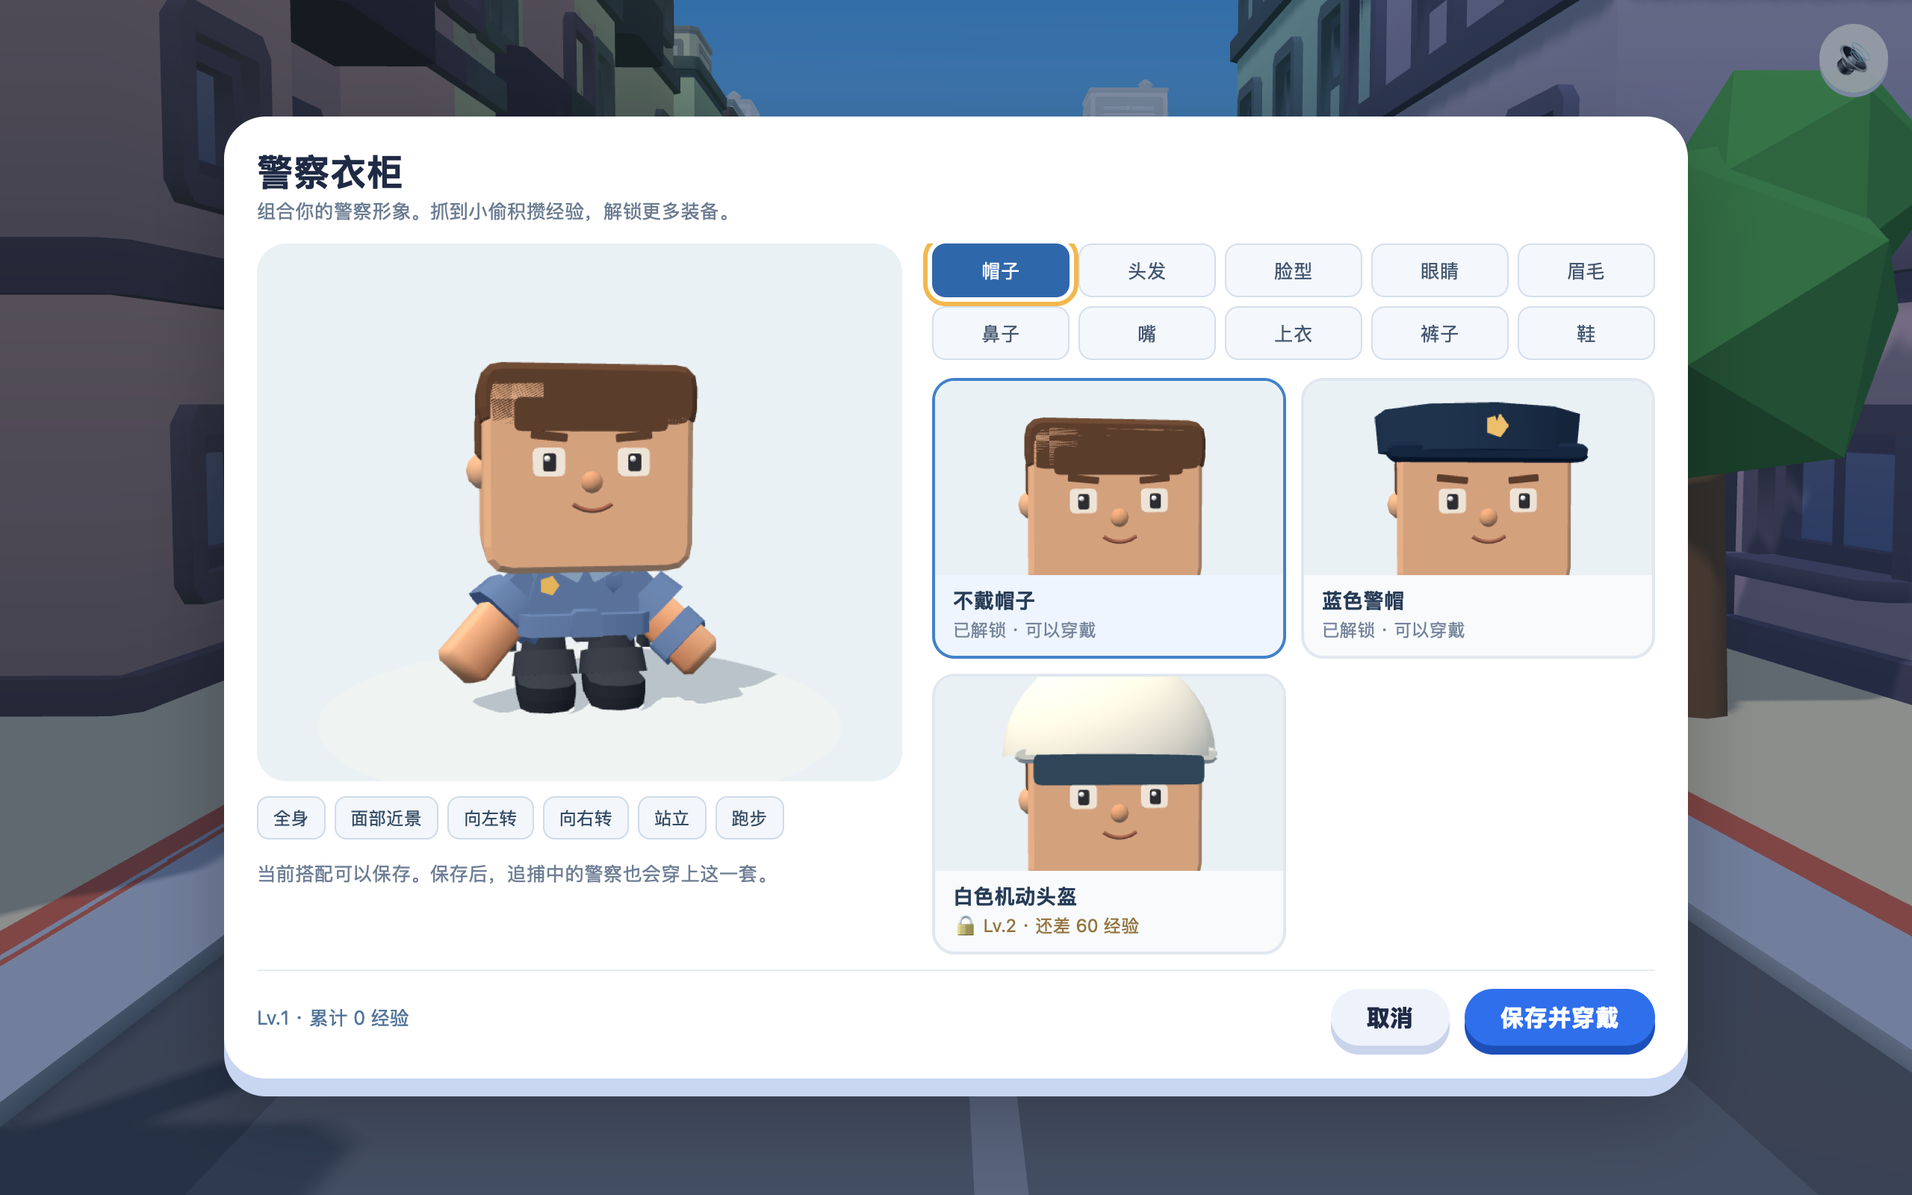
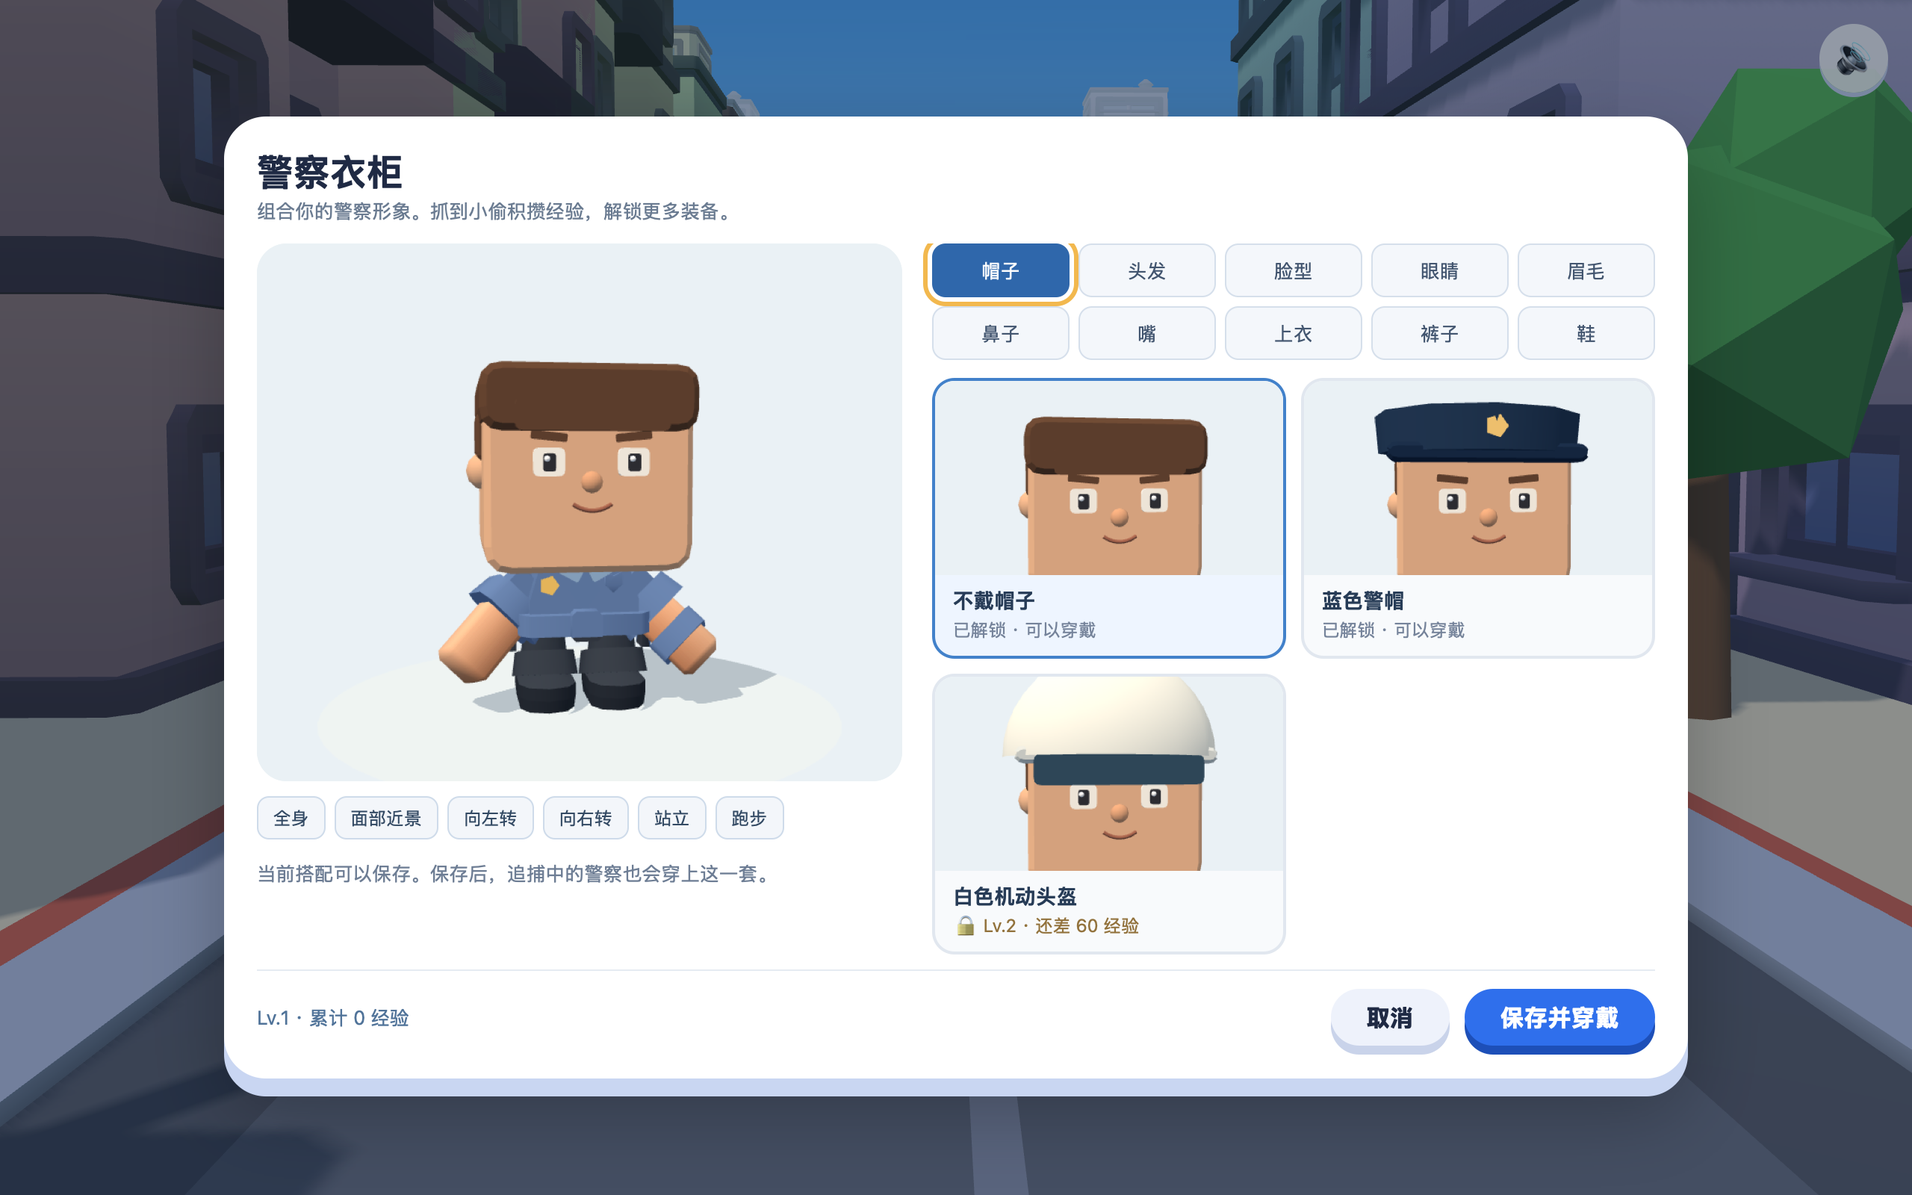
fix: release character skeletons and enable keyboard wardrobe entry

diff --git a/App/main.swift b/App/main.swift
@@ -48,7 +48,10 @@ final class AppDelegate: NSObject, NSApplicationDelegate, NSWindowDelegate {
     func applicationDidFinishLaunching(_ notification: Notification) {
         let config = WKWebViewConfiguration()
         config.mediaTypesRequiringUserActionForPlayback = []
-        if ProcessInfo.processInfo.environment["KC_SELFTEST"] != nil { config.websiteDataStore = .nonPersistent() }
+        if ProcessInfo.processInfo.environment["KC_SELFTEST"] != nil {
+            config.websiteDataStore = .nonPersistent()
+            config.userContentController.addUserScript(WKUserScript(source: "window.__nativeErrors=[];window.addEventListener('error',e=>window.__nativeErrors.push(e.message));window.addEventListener('unhandledrejection',e=>window.__nativeErrors.push(String(e.reason)));", injectionTime: .atDocumentStart, forMainFrameOnly: true))
+        }
         if let dir = Bundle.main.resourceURL?.appendingPathComponent("web") {
             config.setURLSchemeHandler(BundleSchemeHandler(root: dir), forURLScheme: "app")
         }
@@ -87,7 +90,7 @@ final class AppDelegate: NSObject, NSApplicationDelegate, NSWindowDelegate {
         }
         let codes: [Character: UInt16] = ["a": 0, "s": 1, "d": 2, "f": 3, "h": 4, "g": 5, "z": 6, "x": 7, "c": 8, "v": 9, "b": 11, "q": 12, "w": 13, "e": 14, "r": 15, "y": 16, "t": 17, "o": 31, "u": 32, "i": 34, "p": 35, "l": 37, "j": 38, "k": 40, ";": 41, "n": 45, "m": 46, " ": 49]
         func snap(_ name: String, then: @escaping () -> Void) {
-            webView.evaluateJavaScript("JSON.stringify(window.__kcState && window.__kcState())") { result, _ in
+            webView.evaluateJavaScript("JSON.stringify(window.__kcState && {...window.__kcState(),errors:window.__nativeErrors||[],visibility:document.visibilityState,focused:document.hasFocus(),contextLost:document.getElementById('gl').getContext('webgl2').isContextLost()})") { result, _ in
                 try? ((result as? String) ?? "null").write(toFile: "\(outDir)/\(name).json", atomically: true, encoding: .utf8)
                 self.webView.takeSnapshot(with: nil) { image, _ in
                     if let tiff = image?.tiffRepresentation, let rep = NSBitmapImageRep(data: tiff), let png = rep.representation(using: .png, properties: [:]) {
@@ -111,19 +114,24 @@ final class AppDelegate: NSObject, NSApplicationDelegate, NSWindowDelegate {
                 if error == nil, (result as? Bool) == true { return then() }
                 guard attempts > 0 else {
                     try? "Timed out: \(expression)".write(toFile: "\(outDir)/failure.txt", atomically: true, encoding: .utf8)
-                    return NSApp.terminate(nil)
+                    return snap("failure") { NSApp.terminate(nil) }
                 }
                 DispatchQueue.main.asyncAfter(deadline: .now() + 0.25) { waitFor(expression, attempts: attempts - 1, then: then) }
             }
         }
         func play() {
-            key("\r", 36)
-            waitFor("window.__kcState().state === 'play'") {
-                typeNext(24) {
-                    snap("2-play") {
-                        if ProcessInfo.processInfo.environment["KC_WARDROBE_TEST"] == nil { return NSApp.terminate(nil) }
-                        typeNext(40) {
-                            waitFor("Boolean(document.querySelector('#result.show')) && window.__kcState().xp === 35") { snap("4-result") { NSApp.terminate(nil) } }
+            window.makeKeyAndOrderFront(nil)
+            NSApp.activate(ignoringOtherApps: true)
+            window.makeFirstResponder(webView)
+            webView.evaluateJavaScript("document.getElementById('startBtn').focus()") { _, _ in
+                key("\r", 36)
+                waitFor("window.__kcState().state === 'play'") {
+                    typeNext(24) {
+                        snap("2-play") {
+                            if ProcessInfo.processInfo.environment["KC_WARDROBE_TEST"] == nil { return NSApp.terminate(nil) }
+                            typeNext(40) {
+                                waitFor("Boolean(document.querySelector('#result.show')) && window.__kcState().xp === 35") { snap("4-result") { NSApp.terminate(nil) } }
+                            }
                         }
                     }
                 }

diff --git a/web/wardrobe-character.js b/web/wardrobe-character.js
@@ -23,6 +23,9 @@ function part(parent,geo,color,x=0,y=0,z=0) {
  const o=new THREE.Mesh(geo,mat(color));o.position.set(x,y,z);o.castShadow=true;o.receiveShadow=false;parent.add(o);return o;
 }
 function release(group) {group.traverse(o=>{if(o.isMesh){o.geometry.dispose();if(o.userData.ownMaterial)o.material.dispose();}});group.removeFromParent();}
+export function disposeCharacterSkeletons(model) {
+ for(const skeleton of new Set(model.getObjectsByProperty('isSkinnedMesh',true).map(mesh=>mesh.skeleton)))skeleton.dispose();
+}
 export function createWardrobeCharacter(baseGLTF,outfit=DEFAULT_OUTFIT) {
  if(!bodyData) throw new Error('请先加载换装素材');
  const model=clone(baseGLTF.scene);model.scale.setScalar(2);model.rotation.y=Math.PI;
@@ -33,7 +36,7 @@ export function createWardrobeCharacter(baseGLTF,outfit=DEFAULT_OUTFIT) {
  model.traverse(o=>{if(o.name==='head')head=o;if(o.name==='torso')torso=o;if(o.name==='body-mesh')body=o;if(o.name==='head-mesh')oldHead=o;});
  model.updateMatrixWorld(true);body.visible=false;oldHead.visible=false;
  const ch={root,model,mixer,actions,head,torso,body,current:null,parts:null,outfit:null};
- ch.dispose=()=>{mixer.stopAllAction();mixer.uncacheRoot(model);if(ch.parts)release(ch.parts);for(const o of ch.clothes||[])release(o);root.removeFromParent();};
+ ch.dispose=()=>{mixer.stopAllAction();mixer.uncacheRoot(model);disposeCharacterSkeletons(model);if(ch.parts)release(ch.parts);for(const o of ch.clothes||[])release(o);root.removeFromParent();};
  applyOutfit(ch,outfit);return ch;
 }
 export function applyOutfit(ch,outfit) {
@@ -66,8 +69,8 @@ export function applyOutfit(ch,outfit) {
  // 发型贴合头型；帽内版本收起顶部头发，保留鬓角。
  const covered=outfit.hat!=='hat-none',hairColor=outfit.hair==='hair-parted'?0x503629:0x634432;
  if(!covered){
-  part(parts,rounded(width+.018,.115,.35,.035),hairColor,0,.365,-.005);
-  const fringe=part(parts,rounded(outfit.hair==='hair-parted'?.22:.33,.07,.025,.015),hairColor,outfit.hair==='hair-parted'?-.06:0,.327,.176);
+  part(parts,rounded(width+.018,.115,.38,.035),hairColor,0,.365,-.005);
+  const fringe=part(parts,rounded(outfit.hair==='hair-parted'?.22:.33,.07,.025,.015),hairColor,outfit.hair==='hair-parted'?-.06:0,.327,.20);
   if(outfit.hair==='hair-parted')fringe.rotation.z=-.12;
  }
  part(parts,rounded(width+.012,.24,.045,.025),hairColor,0,.245,-.185);

diff --git a/web/world.js b/web/world.js
@@ -1,6 +1,6 @@
 // 3D 街道世界：Kenney CC0 模型 + three.js
 import * as THREE from 'three';
-import { createWardrobeCharacter, loadWardrobeAssets } from './wardrobe-character.js';
+import { createWardrobeCharacter, loadWardrobeAssets, disposeCharacterSkeletons } from './wardrobe-character.js';
 import { SCENES, OFFICERS, validChoice } from './customization.js';
 import { GLTFLoader } from 'three/addons/loaders/GLTFLoader.js';
 import { clone as cloneSkinned } from 'three/addons/utils/SkeletonUtils.js';
@@ -155,12 +155,18 @@ export class World {
     return previews;
   }
 
-  setCustomOutfit(outfit) {
-    if(this.cop.dispose) this.cop.dispose();
+  retireCop() {
+    if (!this.cop) return;
+    if (this.cop.dispose) this.cop.dispose();
     else {
-      this.cop.mixer.stopAllAction();this.cop.mixer.uncacheRoot(this.cop.model);this.scene.remove(this.cop.root);
+      this.cop.mixer.stopAllAction();this.cop.mixer.uncacheRoot(this.cop.model);
+      disposeCharacterSkeletons(this.cop.model);this.scene.remove(this.cop.root);
       for(const part of this.cop.accessories || []) part.traverse(o=>{if(o.isMesh){o.geometry.dispose();o.material.dispose();}});
     }
+  }
+
+  setCustomOutfit(outfit) {
+    this.retireCop();
     this.cop = createWardrobeCharacter(this.models['character-male-c'], outfit);
     this.scene.add(this.cop.root);this.officer='custom';
   }
@@ -178,13 +184,7 @@ export class World {
       this.scene.fog.color.set(scene === 'coast' ? 0xc7eced : scene === 'forest' ? 0xd9e8ce : 0xd4ecff);
     }
     if (this.cop && officer !== this.officer) {
-      if(this.cop.dispose) this.cop.dispose();
-      this.cop.mixer.stopAllAction();
-      this.cop.mixer.uncacheRoot(this.cop.model);
-      this.scene.remove(this.cop.root);
-      for (const part of this.cop.accessories || []) part.traverse(o => {
-        if (o.isMesh) { o.geometry.dispose(); o.material.dispose(); }
-      });
+      this.retireCop();
       this.cop = this.makeCharacter('character-male-c', false);
       this.dressCop(this.cop, officer);
       this.scene.add(this.cop.root);

diff --git a/web/wardrobe-ui.js b/web/wardrobe-ui.js
@@ -36,7 +36,7 @@ export async function createWardrobeUI({container,progress,onSave,onCancel}) {
   else if(!event.shiftKey&&document.activeElement===last){event.preventDefault();first.focus();}
  });
  function close(){container.classList.remove('show');preview.stop();container.removeAttribute('aria-modal');opener?.focus();}
- $('wardrobeCancel').onclick=()=>{close();onCancel();};
+ $('wardrobeCancel').onclick=()=>{onCancel();close();};
  $('wardrobeSave').onclick=()=>{if(!canEquip(draft,current).ok)return;const result=onSave({...draft});close();if(result?.ok===false)document.getElementById('progressError').textContent=result.error;};
- return {open(progress){current=progress;draft={...progress.outfit};opener=document.activeElement;preview.setOutfit(draft);preview.angle=.15;preview.closeup=false;preview.animate('idle');category='hat';render();container.classList.add('show');container.setAttribute('aria-modal','true');container.setAttribute('role','dialog');preview.resize();preview.start();$('wardrobeTabs').firstElementChild.focus();},close,resize(){preview.resize();},dispose(){preview.dispose();},cancel(){close();onCancel();},thumbnail(outfit){preview.setOutfit(outfit);preview.closeup=false;preview.angle=.15;preview.render(0);return preview.canvas.toDataURL();}};
+ return {open(progress){current=progress;draft={...progress.outfit};opener=document.activeElement;preview.setOutfit(draft);preview.angle=.15;preview.closeup=false;preview.animate('idle');category='hat';render();container.classList.add('show');container.setAttribute('aria-modal','true');container.setAttribute('role','dialog');preview.resize();preview.start();$('wardrobeTabs').firstElementChild.focus();},close,resize(){preview.resize();},dispose(){preview.dispose();},cancel(){onCancel();close();},thumbnail(outfit){preview.setOutfit(outfit);preview.closeup=false;preview.angle=.15;preview.render(0);return preview.canvas.toDataURL();}};
 }

diff --git a/web/game.js b/web/game.js
@@ -670,6 +670,8 @@ window.addEventListener('blur', pauseGame);
 
 window.addEventListener('keydown', e => {
   if (e.metaKey || e.ctrlKey) return; // 保留 ⌘Q 等系统快捷键
+  const menuButton=G.state==='menu' && e.target.closest?.('button');
+  if(G.state==='menu' && (e.key==='Tab' || (menuButton && menuButton.getClientRects().length && ['Enter',' '].includes(e.key))))return;
   if(G.state!=='wardrobe') e.preventDefault();
   if (e.repeat) return;
   const key = e.key;

diff --git a/docs/wardrobe-review/verification.md b/docs/wardrobe-review/verification.md
@@ -13,22 +13,23 @@
 - 素材：源身体 494 个三角形覆盖一次，位置、权重与骨骼索引合法。
 - 成长：17 项单元测试，涵盖准确率边界、连击、失败、演示、幂等、升级、非法数据、存储损坏与配额失败。
 - 样板：十类部件、单一头部、脸型/头发替换及跑步姿态。
-- 衣柜：锁定试穿、取消/Esc 回滚、保存重载、预设切换、最小窗口、Tab 焦点不离开弹窗。
+- 衣柜：锁定试穿、取消/Esc 回滚、保存重载、预设切换、最小窗口、菜单 Tab、Enter、空格可打开衣柜；Tab 焦点不离开弹窗、取消后焦点回到衣柜入口。
 - 抓捕：真实键盘 → 奖励 → 解锁 → 穿戴 → 再次抓捕；失败和演示不奖励。
 - 组合：12 种帽/发/脸组合、8 种制服组合；20 次衣柜开关不新增画布、GPU 几何和贴图数量不增长；全十部件保存并在三种场景启动。
+- 资源生命周期：真实渲染分配的骨骼贴图在人物销毁时释放；12 次自定义角色开局/场景替换后贴图数量稳定。
 - 原有功能：选择持久化、暂停、抓获、陈旧设置恢复、最小窗口；三场景 × 三预设共 9 个组合。
 
 运行入口：`BASE_URL=http://127.0.0.1:18765 ./tests/run-all.sh`，浏览器渲染测试串行。现有测试仅新增可选 BASE_URL，保留原断言和默认 8765 地址。
 
 ## 视觉复核
 
-已查看实际渲染截图：人物全身、脸部、衣柜、三场景及 Mac WKWebView。修正了分区衣服自阴影斑块、帽沿与脸角相交、帽子顶部裁切。新部件保留投影，关闭其自阴影接收；地面继续接收阴影。所有缩略图和人物使用相同颜色、光照与部件。
+已查看实际渲染截图：人物全身、脸部、衣柜、三场景及 Mac WKWebView。修正了分区衣服自阴影斑块、帽沿与脸角相交、帽子顶部裁切及不戴帽子时头发与脸部重合产生的闪纹。新部件保留投影，关闭其自阴影接收；地面继续接收阴影。所有缩略图和人物使用相同颜色、光照与部件。
 
 自动化没有代替用户对美术的最终偏好判断；完整样板可在 `wardrobe-sample.html` 自由试穿。
 
 ## 原生与交付边界
 
-`./build.sh` 生成 arm64 / x86_64 通用 App。本机 Apple 芯片 WKWebView 自检用临时存储，打开衣柜、试穿锁定头盔后取消、不戴帽子后保存、发送真实 NSEvent 键盘事件并抓获。状态与 WKWebView 快照保存在 `native/`。最终抓捕记录 correct=24、wrong=0、officer=custom、xp=35；取消时 xp=0、outfit.hat=hat-cap。
+`./build.sh` 生成 arm64 / x86_64 通用 App。本机 Apple 芯片 WKWebView 自检用临时存储，打开衣柜、试穿锁定头盔后取消、不戴帽子后保存、发送真实 NSEvent 键盘事件并抓获。自检发送按键前重新激活窗口，避免 WebKit 后台不推进倒计时；超时会记录失败状态和快照。最终运行未注入额外动画循环，记录脚本错误为空、WebGL 上下文正常。状态与 WKWebView 快照保存在 `native/`。最终抓捕记录 correct=24、wrong=0、officer=custom、xp=35；取消时 xp=0、outfit.hat=hat-cap。
 
 签名为本地 ad-hoc；Intel 二进制已构建，Intel 实机尚未测试。没有替换 `/Applications` 中的应用，没有推送或发布 GitHub。新版 App 在本分支的 `dist/键盘小警察.app`。
 
@@ -38,3 +39,7 @@
 - 隔离开发保留主仓库和已安装应用；使用 18765 端口，避免占用现有预览。体验新版需打开新版预览或本分支 App。
 - 自定义/预设模式单独保存 active 标记；预设仍免费，但不会赠送对应部件的解锁资格。
 - 现有浏览器测试仅增加地址参数，方便验证隔离副本；断言及默认地址不变。
+
+## 最终独立审查
+
+两项 Important 已修复并补充实际回归：独立克隆的骨骼贴图在退休人物时释放（同时处理临时预设角色）；菜单放行 Tab 与可见按钮的 Enter/空格原生行为。两项均先观察回归失败再验证修复通过。审查未发现 Critical 或 Minor。视觉、最小窗口、原生按键及资源增长由本次实际运行证据补充。

diff --git a/docs/wardrobe-review/review.md b/docs/wardrobe-review/review.md
@@ -1,0 +1,10 @@
+# 独立代码审查与处理
+
+2026-10-11，独立审查者检查了模块化角色、成长、衣柜、game/world 集成与原生自检。结论：无 Critical，两项 Important，无 Minor。
+
+1. **克隆骨骼资源释放**：原实现只清理几何和动作，未释放独立骨骼的 boneTexture。新增唯一骨骼集合释放函数，并统一世界中角色退休逻辑，同时处理换装前临时生成的预设角色。实际渲染后释放断言先失败再通过；12 次自定义开局/场景替换贴图数量保持稳定。
+2. **菜单键盘入口**：原菜单统一 preventDefault，阻断 Tab 和按钮的 Enter/空格。现在放行菜单焦点移动与可见按钮的原生激活，保留实际游戏快捷键。新增 Enter 打开、Tab 移动、空格再次打开、取消恢复入口焦点的实际浏览器回归，先失败后通过。
+
+审查者未作静态结论的方面另有运行证据：视觉与相交由真实浏览器/WKWebView 截图复核；960×620 最小窗口由浏览器检查（原生快照为1280×800）；原生使用实际键盘事件；资源增长使用真实 WebGL renderer 计数。Intel 实机仍未测试。
+
+最终完整测试和打包核对见 verification.md。没有再次派审查者进行重复审查，修复依据实际回归测试和完整测试套件验收。

diff --git a/README.md b/README.md
@@ -50,7 +50,7 @@
 
 先运行 `python3 devserver.py`，另一个终端运行 `node tests/customization.cjs` 和 `node tests/scene-combinations.cjs`（需要 Playwright 和 Google Chrome；可通过 `PLAYWRIGHT_PATH` 指定 Playwright 安装路径）。覆盖选择保存、反复切换、警察可见性、暂停和抓获流程，以及三种场景与三种警察的全部九种组合。
 
-新增换装验证可执行 `BASE_URL=http://localhost:8765 ./tests/run-all.sh`，串行运行素材检查、17 项成长单元测试和 6 组浏览器流程。无需网络资源，测试依赖 Playwright 和 Google Chrome。测试截图写入 `docs/wardrobe-review/`。
+新增换装验证可执行 `BASE_URL=http://localhost:8765 ./tests/run-all.sh`，串行运行素材检查、17 项成长单元测试和 7 组浏览器流程。无需网络资源，测试依赖 Playwright 和 Google Chrome。测试截图写入 `docs/wardrobe-review/`。
 
 原生自检：构建后设置 `KC_SELFTEST` 为已存在的输出目录，启动 `dist/键盘小警察.app/Contents/MacOS/KeyboardCop`；再加 `KC_WARDROBE_TEST=1` 可检查试穿、取消、保存及实际按键抓捕。自检使用临时存储，不修改日常玩家进度。详见 [换装验证记录](docs/wardrobe-review/verification.md)。
 

diff --git a/docs/superpowers/plans/2026-10-11-wardrobe-progression.md b/docs/superpowers/plans/2026-10-11-wardrobe-progression.md
@@ -124,6 +124,10 @@
 - [ ] Step 5：保存原生画面和状态证据，复查五官、帽发、衣服接缝与抓获镜头；若窗口截图空白，核对 WKWebView 快照和实际状态，不忽略问题。
 - [ ] Step 6：运行 `git diff --check`，本地提交文档与验证记录，提供可运行新版、截图和验证结果。保留用户是否替换已安装应用、是否推送/发布的授权边界。
 
+## 执行记录
+
+2026-10-11：用户明确要求写好计划后连续实施至测试完成，覆盖下述中途视觉暂停。Tasks 1–5 已实现并完成素材、单元、浏览器、通用 App 构建、签名和 Apple 芯片原生验证。实际结果及 Intel 实机、安装和发布边界见 [验证记录](../../wardrobe-review/verification.md)。
+
 ## 执行方式与停点
 
 建议在当前会话由主代理直接执行，任务之间按接口顺序推进；无需并行子代理。计划审阅后先执行 Task 1，达到真实可运行样板并让用户验收人物视觉；用户认可后按 Task 2–5 完成系统。若人物资产质量或动画兼容性不达标，返回 Task 1 修正，不以功能测试通过替代视觉验收。
